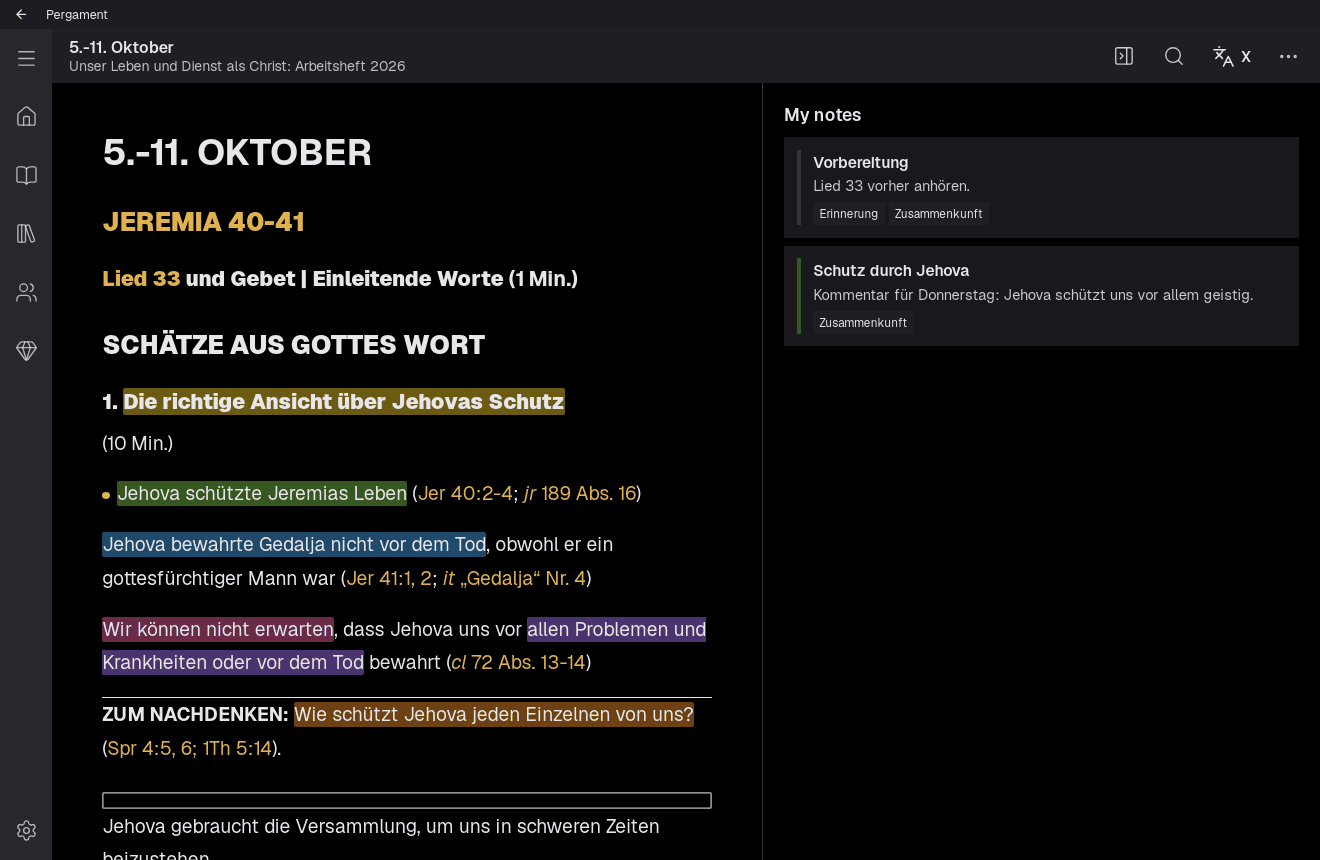
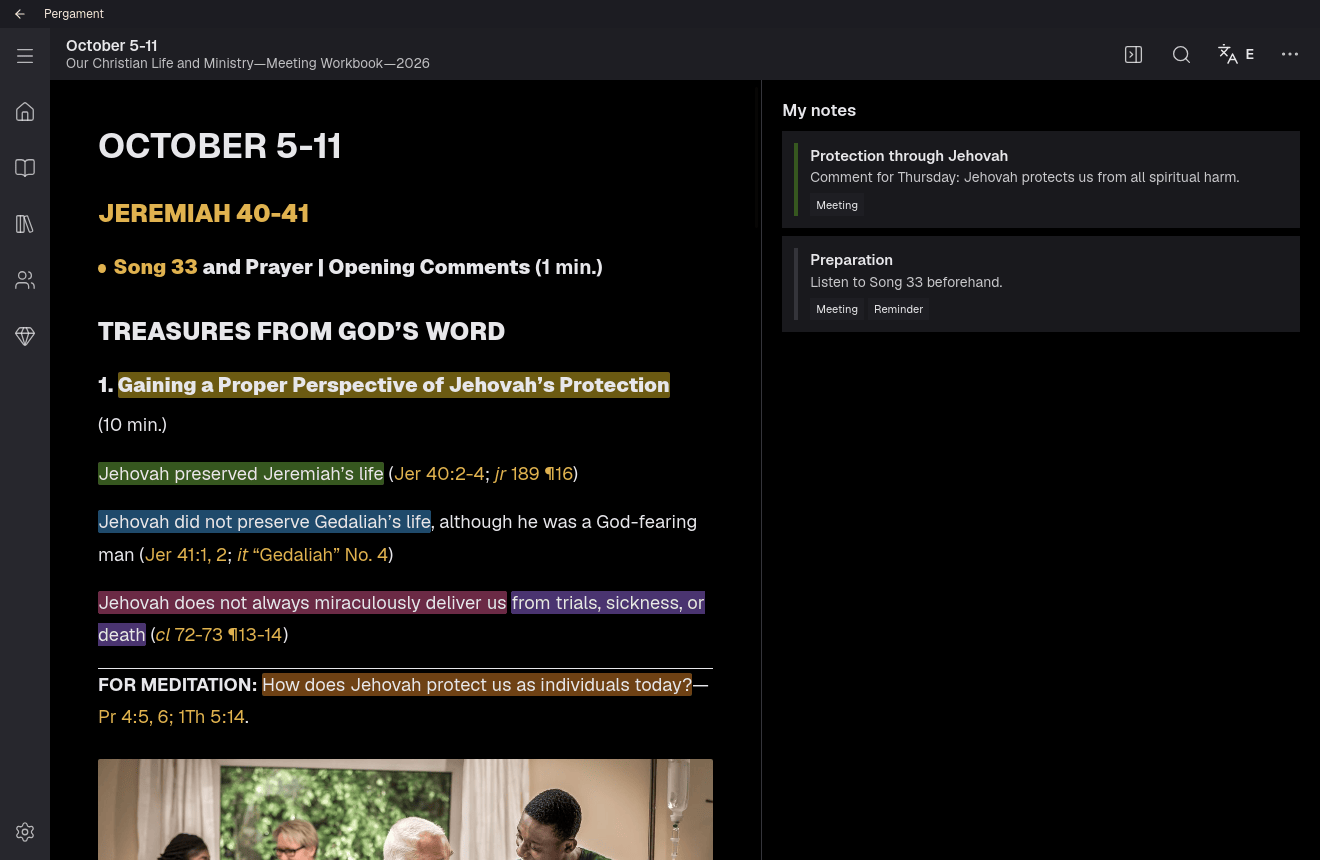
docs: update the README and retake the screenshots in English

diff --git a/README.md b/README.md
@@ -12,8 +12,8 @@ follows JW Library on other platforms, with its own name, colours and icons.
 | ![Daily text with a Bible reference open in the side pane](docs/screenshots/02-daily-text-reference-dark.png) | ![Hebrews 10 with highlights, a note and the study pane](docs/screenshots/03-bible-study-pane-dark.png) |
 | ![Workbook week with highlights in all six colours](docs/screenshots/06-workbook-highlights-light.png) | ![Personal Study with notes and tags](docs/screenshots/08-personal-study-light.png) |
 
-Every view is in [docs/screenshots](docs/screenshots), in both themes. The
-notes and highlights in them are sample data.
+Every view is in [docs/screenshots](docs/screenshots), in both themes. They
+show English publications; the notes and highlights are sample data.
 
 ## Before you use it
 
@@ -50,14 +50,21 @@ unpacked with path and size checks, and rendered HTML is sanitized.
 - The Bible has tabs from the publication's own navigation, book tiles and a
   chapter grid. The reader has a study pane with the outline, footnotes,
   cross references and study notes per verse.
-- The Library lists the catalog's categories and your downloaded
-  publications.
+- The Library lists the catalog's categories. Each category is split the way
+  JW Library does it: newer and older publications, yearbooks, editions,
+  Watchtower and Awake! by year. Downloaded publications are grouped by the
+  type in their manifest, so types the catalog doesn't list, such as
+  Curriculum and Outlines, show up once you import one.
 - Meetings shows the selected week's workbook program and Watchtower study
   article from downloaded issues, with links to download the rest.
-- Links in a text open in a side pane with the cited verses or paragraphs
-  marked. The publication bar at the top of the pane opens the reference in
+- A Bible link opens "Parallel Translations" in a side pane: the cited verses
+  in every Bible of your library. "Customize" chooses which Bibles show and
+  in what order. Other links open the reference in the pane with the cited
+  paragraphs tinted. The publication bar at the top of the pane opens it in
   the main reader. If the publication isn't downloaded, the pane offers to
   download it.
+- Answer fields in workbooks and study articles are text boxes. What you type
+  is kept on this computer.
 - Select text to highlight it in one of six colours or attach a note. Click
   a highlight to change its colour, add a note or remove it.
 - Personal Study lists your notes with their tags, and your bookmarks.
@@ -66,8 +73,9 @@ unpacked with path and size checks, and rendered HTML is sanitized.
   Restoring replaces the current data; the previous database is kept as
   `userData.db.before-restore` in the library folder.
 
-The language menu sits in the top right corner. There is a light and a dark
-theme.
+The publication language menu sits in the top right corner. The interface
+is available in English and German (Settings, by default it follows the
+system language), and there is a light and a dark theme.
 
 Home lists, categories and meetings come from jw.org's public catalog, about
 58 MB. It is downloaded only when you ask for it and checked for updates at
